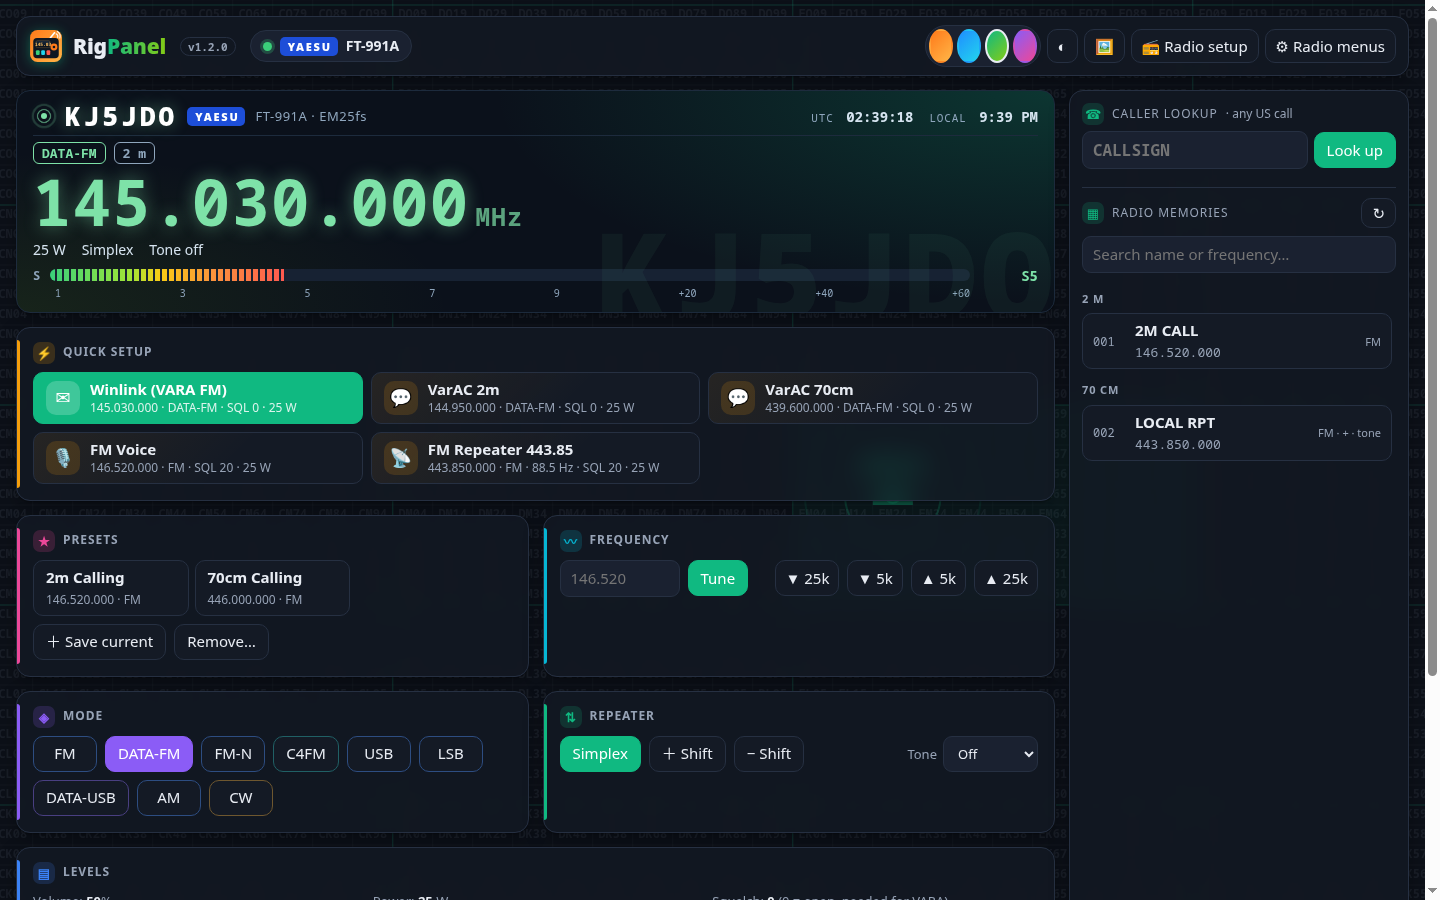
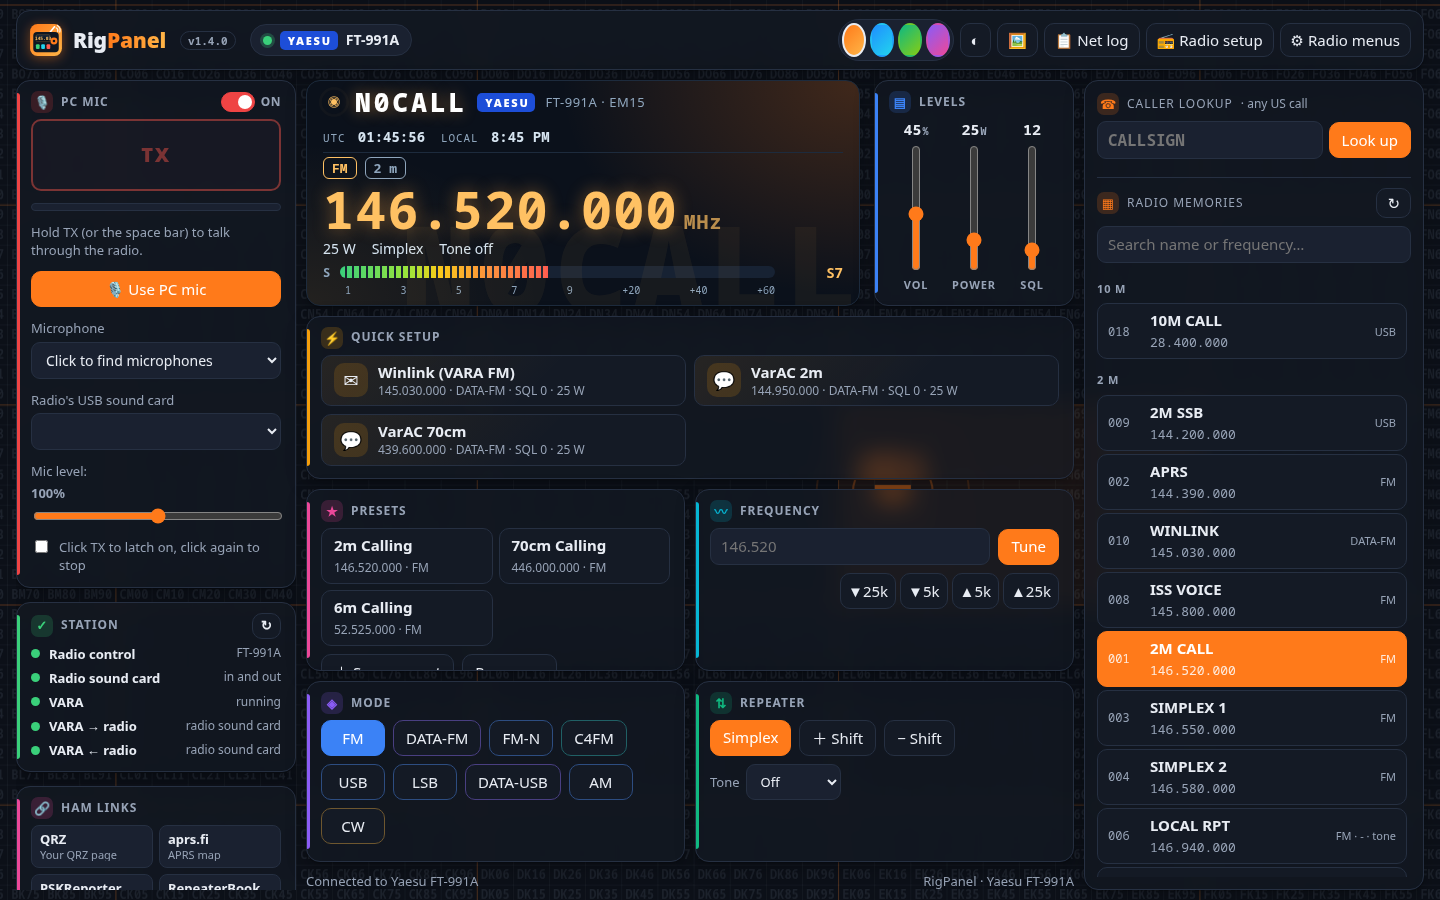
Docs: demo-data screenshots, including the Net log
- Every screenshot is now taken from a demo server with made-up data
  (N0CALL, 146.520 and other generic frequencies, generic memories,
  fictional N#CALL check-ins), so no real station's details appear
- New: Net log during a net, the Letterhead window, and a PDF export page
- docs/demo_server.py + docs/make-screenshots.sh regenerate them all
- Background screenshots use see-through panels so the pattern shows

diff --git a/docs/demo_server.py b/docs/demo_server.py
@@ -1,0 +1,144 @@
+#!/usr/bin/env python3
+"""Demo server for README screenshots: the real RigPanel page with made-up data (N0CALL, generic frequencies).
+No radio needed and nothing is saved.  Usage: demo_server.py [port]   (default 8090)
+
+Page options (query string): accent=signal|ocean|aurora|violet  mode=dark|light  bg=glow|plain|grid|waves|waterfall|topo|stars
+                             glass=0-100 (see-through panels)  strength=0-100 (background pattern)
+                             open=bg|radio|lh   (opens that dialog after loading; lh = the net log's Letterhead)
+The net log page is at /net, with a sample net in progress (fictional N#CALL callsigns, which aren't valid US calls)."""
+import datetime
+import json
+import os
+import re
+import sys
+import urllib.parse
+from http.server import BaseHTTPRequestHandler, ThreadingHTTPServer
+
+APP = os.path.join(os.path.dirname(os.path.abspath(__file__)), "..", "app")
+VERSION = re.search(r'^VERSION = "([^"]+)"', open(os.path.join(APP, "rigpanel.py")).read(), re.M).group(1)
+BG = {"style": "glow", "strength": 60, "animate": False, "dim": 50, "blur": 0, "fit": "cover", "glass": 0, "v": 1, "photo": False}
+CAPS = {"model": "FT-991A", "maker": "Yaesu", "family": "yaesu",
+        "modes": ["FM", "DATA-FM", "FM-N", "C4FM", "USB", "LSB", "DATA-USB", "AM", "CW"], "power": [5, 100],
+        "ranges": [[30000, 56000000], [144000000, 148000000], [430000000, 450000000]],
+        "features": ["memories", "menus", "mic_auto", "shift", "squelch", "tone", "tuner", "volume"], "mic_hint": ""}
+STATUS = {"ok": True, "freq": 146520000, "mode": "FM", "power": 25, "volume": 45, "squelch": 12, "smeter": 48.0,
+          "s_label": "S7", "tx": False, "tone_mode": 0, "tone": None, "shift": "simplex", "pc_tx": False}
+PRESETS = [{"name": "2m Calling", "freq": 146520000, "mode": "FM", "tone": None, "shift": "simplex"},
+           {"name": "70cm Calling", "freq": 446000000, "mode": "FM", "tone": None, "shift": "simplex"},
+           {"name": "6m Calling", "freq": 52525000, "mode": "FM", "tone": None, "shift": "simplex"}]
+PROFILES = [{"name": "Winlink (VARA FM)", "icon": "✉", "freq": 145030000, "mode": "DATA-FM", "tone": None, "shift": "simplex", "squelch": 0, "power": 25},
+            {"name": "VarAC 2m", "icon": "\U0001F4AC", "freq": 144950000, "mode": "DATA-FM", "tone": None, "shift": "simplex", "squelch": 0, "power": 25},
+            {"name": "VarAC 70cm", "icon": "\U0001F4AC", "freq": 439600000, "mode": "DATA-FM", "tone": None, "shift": "simplex", "squelch": 0, "power": 25}]
+MEMORIES = [{"ch": i + 1, "freq": f, "mode": m, "tone": t, "shift": sh, "name": n} for i, (f, m, t, sh, n) in enumerate([
+    (146520000, "FM", False, "simplex", "2M CALL"), (144390000, "FM", False, "simplex", "APRS"),
+    (146550000, "FM", False, "simplex", "SIMPLEX 1"), (146580000, "FM", False, "simplex", "SIMPLEX 2"),
+    (147555000, "FM", False, "simplex", "SIMPLEX 3"), (146940000, "FM", True, "-", "LOCAL RPT"),
+    (147180000, "FM", True, "+", "RPT 2"), (145800000, "FM", False, "simplex", "ISS VOICE"),
+    (144200000, "USB", False, "simplex", "2M SSB"), (145030000, "DATA-FM", False, "simplex", "WINLINK"),
+    (446000000, "FM", False, "simplex", "70CM CALL"), (446500000, "FM", False, "simplex", "70CM SPLX"),
+    (444000000, "FM", True, "+", "UHF RPT"), (52525000, "FM", False, "simplex", "6M CALL"),
+    (50125000, "USB", False, "simplex", "6M SSB"), (162400000, "FM", False, "simplex", "NOAA WX1"),
+    (162550000, "FM", False, "simplex", "NOAA WX2"), (28400000, "USB", False, "simplex", "10M CALL")])]
+STATION = {"checks": [{"id": "radio", "label": "Radio control", "state": "ok", "detail": "FT-991A"},
+                      {"id": "card", "label": "Radio sound card", "state": "ok", "detail": "in and out"},
+                      {"id": "vara", "label": "VARA", "state": "ok", "detail": "running"},
+                      {"id": "vara-out", "label": "VARA → radio", "state": "ok", "detail": "radio sound card"},
+                      {"id": "vara-in", "label": "VARA ← radio", "state": "ok", "detail": "radio sound card"}], "fixable": False}
+PORTS = [{"path": "/dev/ttyUSB0", "label": "Silicon Labs CP2105 Dual USB to UART Bridge (Enhanced)"},
+         {"path": "/dev/ttyUSB1", "label": "Silicon Labs CP2105 Dual USB to UART Bridge (Standard)"}]
+RADIO = {"config": {"radio": "auto", "serial_port": "", "baud": 38400, "civ_address": "", "hamlib_model": 0, "hamlib_name": "",
+                    "max_power": 100}, "ports": PORTS, "hamlib": True, "connected": "FT-991A", "message": ""}
+
+
+LETTERHEAD = {"org": "Anytown Amateur Radio Club", "tagline": "ARES Net Control · Anytown County",
+              "contact": "N0CALL · net@example.org", "accent": "#1d3f73", "style": "built", "has_logo": True, "has_banner": False}
+CHECKINS = [("N1CALL", "Sample Operator", "Anytown, US", 3, "traffic"), ("N2CALL", "Alex Example", "Riverside, US", 12, ""),
+            ("N3CALL", "Jordan Placeholder", "Lakeview, US", 8, "short"), ("N4CALL/M", "Casey Demo", "Mobile", None, "mobile"),
+            ("N5CALL", "Pat Sample", "Hillcrest, US", 21, ""), ("N6CALL", "Riley Test", "Anytown, US", 2, "traffic"),
+            ("N7CALL", "Morgan Fictional", "Fairview, US", 15, ""), ("N8CALL", "Taylor Mock", "Oakdale, US", 27, "")]
+
+
+def demo_log():
+    """A net that started 23 minutes ago, so the page shows it on the air."""
+    start = datetime.datetime.now(datetime.timezone.utc).replace(microsecond=0) - datetime.timedelta(minutes=23)
+    ents = []
+    for i, (call, name, loc, mi, flag) in enumerate(CHECKINS):
+        ents.append({"t": (start + datetime.timedelta(minutes=1 + i * 2)).isoformat().replace("+00:00", "Z"),
+                     "call": call, "name": name, "loc": loc, "grid": "", "miles": mi,
+                     "traffic": flag == "traffic", "short": flag == "short", "mobile": flag == "mobile", "ack": i < 5,
+                     "notes": {0: "Weather report for the county", 2: "Leaving at 0130Z", 5: "Message for net manager"}.get(i, "")})
+    return {"id": start.strftime("%Y%m%d-%H%M%S"), "name": "Anytown ARES Weekly Net", "ncs": "N0CALL",
+            "freq": "146.520 MHz FM", "mode": "", "start": start.isoformat().replace("+00:00", "Z"), "end": None, "entries": ents}
+
+
+PAST = [{"id": "20261015-010000", "name": "Anytown ARES Weekly Net", "start": "2026-10-15T01:00:00Z", "end": "2026-10-15T01:42:00Z", "count": 11},
+        {"id": "20261008-010000", "name": "Anytown ARES Weekly Net", "start": "2026-10-08T01:00:00Z", "end": "2026-10-08T01:38:00Z", "count": 9},
+        {"id": "20261004-150000", "name": "Simulated Emergency Test", "start": "2026-10-04T15:00:00Z", "end": "2026-10-04T18:05:00Z", "count": 23}]
+
+
+def page(name, q):
+    html = open(os.path.join(APP, name), encoding="utf-8").read()
+    ls = "".join(f'localStorage.setItem("rp-{k}", {json.dumps(q[k])});' for k in ("accent", "mode") if q.get(k))
+    html = html.replace("<head>", "<head>\n<script>try { localStorage.clear(); " + ls + " } catch {}</script>", 1)
+    if q.get("open") in ("bg", "radio", "lh"):
+        html = html.replace("</body>", f'<script>setTimeout(() => document.getElementById("open-{q["open"]}").click(), 900);</script>\n</body>', 1)
+    return html.encode()
+
+
+class Handler(BaseHTTPRequestHandler):
+    def log_message(self, *a):
+        pass
+
+    def _send(self, body, ctype="application/json"):
+        if not isinstance(body, bytes):
+            body = json.dumps(body).encode()
+        self.send_response(200)
+        self.send_header("Content-Type", ctype)
+        self.send_header("Content-Length", str(len(body)))
+        self.end_headers()
+        self.wfile.write(body)
+
+    def do_GET(self):
+        u = urllib.parse.urlparse(self.path)
+        q = {k: v[0] for k, v in urllib.parse.parse_qs(u.query).items()}
+        p = u.path
+        if p == "/":
+            return self._send(page("index.html", q), "text/html; charset=utf-8")
+        if p == "/net":
+            return self._send(page("index-net.html", q), "text/html; charset=utf-8")
+        if p == "/api/letterhead-logo":
+            return self._send(open(os.path.join(os.path.dirname(os.path.abspath(__file__)), "demo-logo.jpg"), "rb").read(), "image/jpeg")
+        if p == "/api/netlogs":
+            log = demo_log()
+            return self._send([{"id": log["id"], "name": log["name"], "start": log["start"], "end": None, "count": len(log["entries"])}] + PAST)
+        if p == "/api/netlog":
+            return self._send(demo_log())
+        if p == "/icon.svg":
+            return self._send(open(os.path.join(APP, "rigpanel.svg"), "rb").read(), "image/svg+xml")
+        bg = dict(BG, style=self.headers.get("X-Bg") or BG["style"])
+        ref = urllib.parse.parse_qs(urllib.parse.urlparse(self.headers.get("Referer", "")).query)
+        if ref.get("bg"):
+            bg["style"] = ref["bg"][0]
+        for k in ("glass", "strength"):   # see-through panels / pattern strength, for the background screenshots
+            if ref.get(k):
+                bg[k] = int(ref[k][0])
+        data = {"/api/status": STATUS, "/api/presets": PRESETS, "/api/profiles": PROFILES, "/api/memories": MEMORIES,
+                "/api/lookups": [], "/api/station": STATION, "/api/letterhead": LETTERHEAD, "/api/radio": RADIO, "/api/hamlib-models": [],
+                "/api/config": {"callsign": "N0CALL", "grid": "EM15", "version": VERSION, "background": bg,
+                                "radio": "FT-991A", "caps": CAPS, "trials": ["net"]},
+                "/api/lookup": {"call": q.get("call", "N0CALL"), "status": "VALID", "name": "Sample Operator", "type": "PERSON",
+                                "cityState": "ANYTOWN, US", "grid": "EM15"}}.get(p)
+        if data is None:
+            self.send_error(404)
+        else:
+            self._send(data)
+
+    def do_POST(self):   # accept and ignore: nothing is changed in the demo
+        self.rfile.read(int(self.headers.get("Content-Length", 0) or 0))
+        self._send({"ok": True})
+
+
+if __name__ == "__main__":
+    PORT = int(sys.argv[1]) if len(sys.argv) > 1 else 8090
+    print(f"RigPanel demo on http://localhost:{PORT}")
+    ThreadingHTTPServer(("127.0.0.1", PORT), Handler).serve_forever()

diff --git a/README.md b/README.md
@@ -29,6 +29,9 @@ screen on a 1080p monitor.
 | ![Ocean theme in light mode](docs/screenshots/main-light.png) **Ocean theme, light mode** | ![Radio setup window](docs/screenshots/radio-setup.png) **Radio setup:** Yaesu, Icom or any Hamlib radio |
 | ![Grid squares background](docs/screenshots/background-grid.png) **Grid squares background**, centred on your grid square | ![Radio waves background](docs/screenshots/background-waves.png) **Radio waves background**, Violet theme |
 | ![Background picker](docs/screenshots/background-picker.png) **Background picker** | ![RigPanel on a phone](docs/screenshots/phone.png) **On a phone** |
+| ![Net log add-on during a net](docs/screenshots/netlog.png) **Net log add-on** during a net | ![Net log PDF export with a club letterhead](docs/screenshots/netlog-pdf.png) **Net log PDF export** with your letterhead |
+
+Screenshots use demo data (`docs/demo_server.py`, the fictional N0CALL and generic frequencies). Regenerate them with `docs/make-screenshots.sh`.
 
 ## Supported radios
 | Radio | How | Extras |

diff --git a/netlog/README.md b/netlog/README.md
@@ -15,6 +15,14 @@ connected, and is also available as an add-on inside [RigPanel](https://github.c
 
 Runs on **Linux** and **Windows 10/11** with Python 3.8+ and nothing else to install.
 
+![Net Log during a net: check-ins with names, flags and acknowledgements](https://raw.githubusercontent.com/GUAC88/RigPanel/main/docs/screenshots/netlog.png)
+
+| | |
+|---|---|
+| ![Letterhead settings](https://raw.githubusercontent.com/GUAC88/RigPanel/main/docs/screenshots/netlog-letterhead.png) **Letterhead:** built-in, or upload your own | ![PDF export](https://raw.githubusercontent.com/GUAC88/RigPanel/main/docs/screenshots/netlog-pdf.png) **PDF export** (Word looks the same) |
+
+*(Demo data: fictional N#CALL callsigns.)*
+
 ## Install
 ### Linux
 ```
